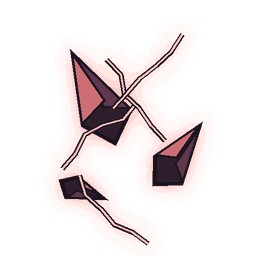
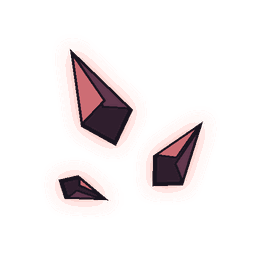
Raise gem pieces out of the face instead of crystal rods
Gems showed tall 3D crystal rods on one face, which read as glowing
stalks. Now the drawing's own ore pieces stand a little out of every
drawn face.

- OreFaces stacks a gem's pieces image in thin clear layers just off
  each face (0.3 studs in all). The lowest layer sits on the face and
  is dark, hiding the flat drawn pieces, the middle ones are darker
  sides, and the top one is full colour. The layers keep the block's
  orientation, so they line up with the face's drawing.
- The self-lit glow now sits on the raised pieces. On top and bottom
  faces the glow overlay is turned 270 degrees, because SurfaceGuis
  there sit a quarter turn from Decals.
- DrawnFaces.pieces(name) is the glow image without its halo.
- draw_faces.py keeps Emberglass's cracks out of its glow image, so
  the cracks stay in the rock and only the shards stand out.
- OreLooks.raised sets the height, layer count and side shading. The
  3D crystals remain only for when drawings can't be shown.

Changed region(s): [[0.4062, 0.125, 0.7188, 0.5625], [0.3125, 0.6875, 0.5938, 0.9688], [0.2188, 0.4688, 0.4688, 0.6562]]

diff --git a/art/ore-looks/draw_faces.py b/art/ore-looks/draw_faces.py
@@ -74,6 +74,16 @@ class Style:
 STYLE = Style()
 
 
+class GlowStyle(Style):
+    """For glow images: cracks stay in the rock, so only the ore pieces glow and stand out."""
+
+    def crack(self, t, pts, ore):
+        pass
+
+
+GLOW_STYLE = GlowStyle()
+
+
 def malachite(t, ore, rng, style):
     """Copper nuggets sitting in cradles of banded green malachite, the rock copper is found in."""
     pal, green = ore["pal"], ore["extra"]
@@ -208,7 +218,7 @@ def draw(face, variant, glow=False):
         t.d = ImageDraw.Draw(t.img)
     shape = DRAWN.get(face["shape"]) or SHAPES[face["shape"]]
     face = dict(face, matrix=face.get("matrix", face["host"]), variant=variant)
-    shape(t, face, rng, STYLE)
+    shape(t, face, rng, GLOW_STYLE if glow else STYLE)
     if glow:
         return glow_layer(t.img, hexrgb(face["glow"]))
     t.d.rectangle([0, 0, DRAW - 1, DRAW - 1], outline=to255(INK), width=int(0.035 * DRAW))

diff --git a/art/ore-looks/README.md b/art/ore-looks/README.md
@@ -1,7 +1,7 @@
 # Ore looks: Ink & Facet
 
-Mine blocks use a Storybook Ink style (flat colour, bold ink lines, hatching). Gem ores grow
-low-poly 3D crystals out of one face.
+Mine blocks use a Storybook Ink style (flat colour, bold ink lines, hatching). On gem ores the
+drawing's own ore pieces stand a little out of every face.
 
 - `src/shared/OreLooks.luau` holds the look data for every block: palettes, crowns, glow.
 - `src/client/DrawnFaces.luau` decodes the face drawings in `src/client/OreDrawings/` and puts
@@ -9,8 +9,10 @@ low-poly 3D crystals out of one face.
 - Ores from Gold up glow from their ore pieces. Each has a glow image in `src/client/OreGlow/`
   (just its ore pieces and a soft halo), which `OreFaces` shows self-lit on the nearest glowing
   ores. How strongly each ore glows is its `shine` in `OreLooks`.
-- `src/shared/ReliefKit.luau` builds the 3D crystals, plus a 3D fallback for every face that the
-  game uses when it can't show drawings.
+- `OreFaces` raises a gem's ore pieces by stacking its pieces image (the glow image without the
+  halo) in thin layers just off each face, darker underneath. `Looks.raised` sets the height.
+- `src/shared/ReliefKit.luau` builds a 3D fallback for every face, including gem crystals, that
+  the game uses when it can't show drawings.
 
 ## Redraw the faces
 
